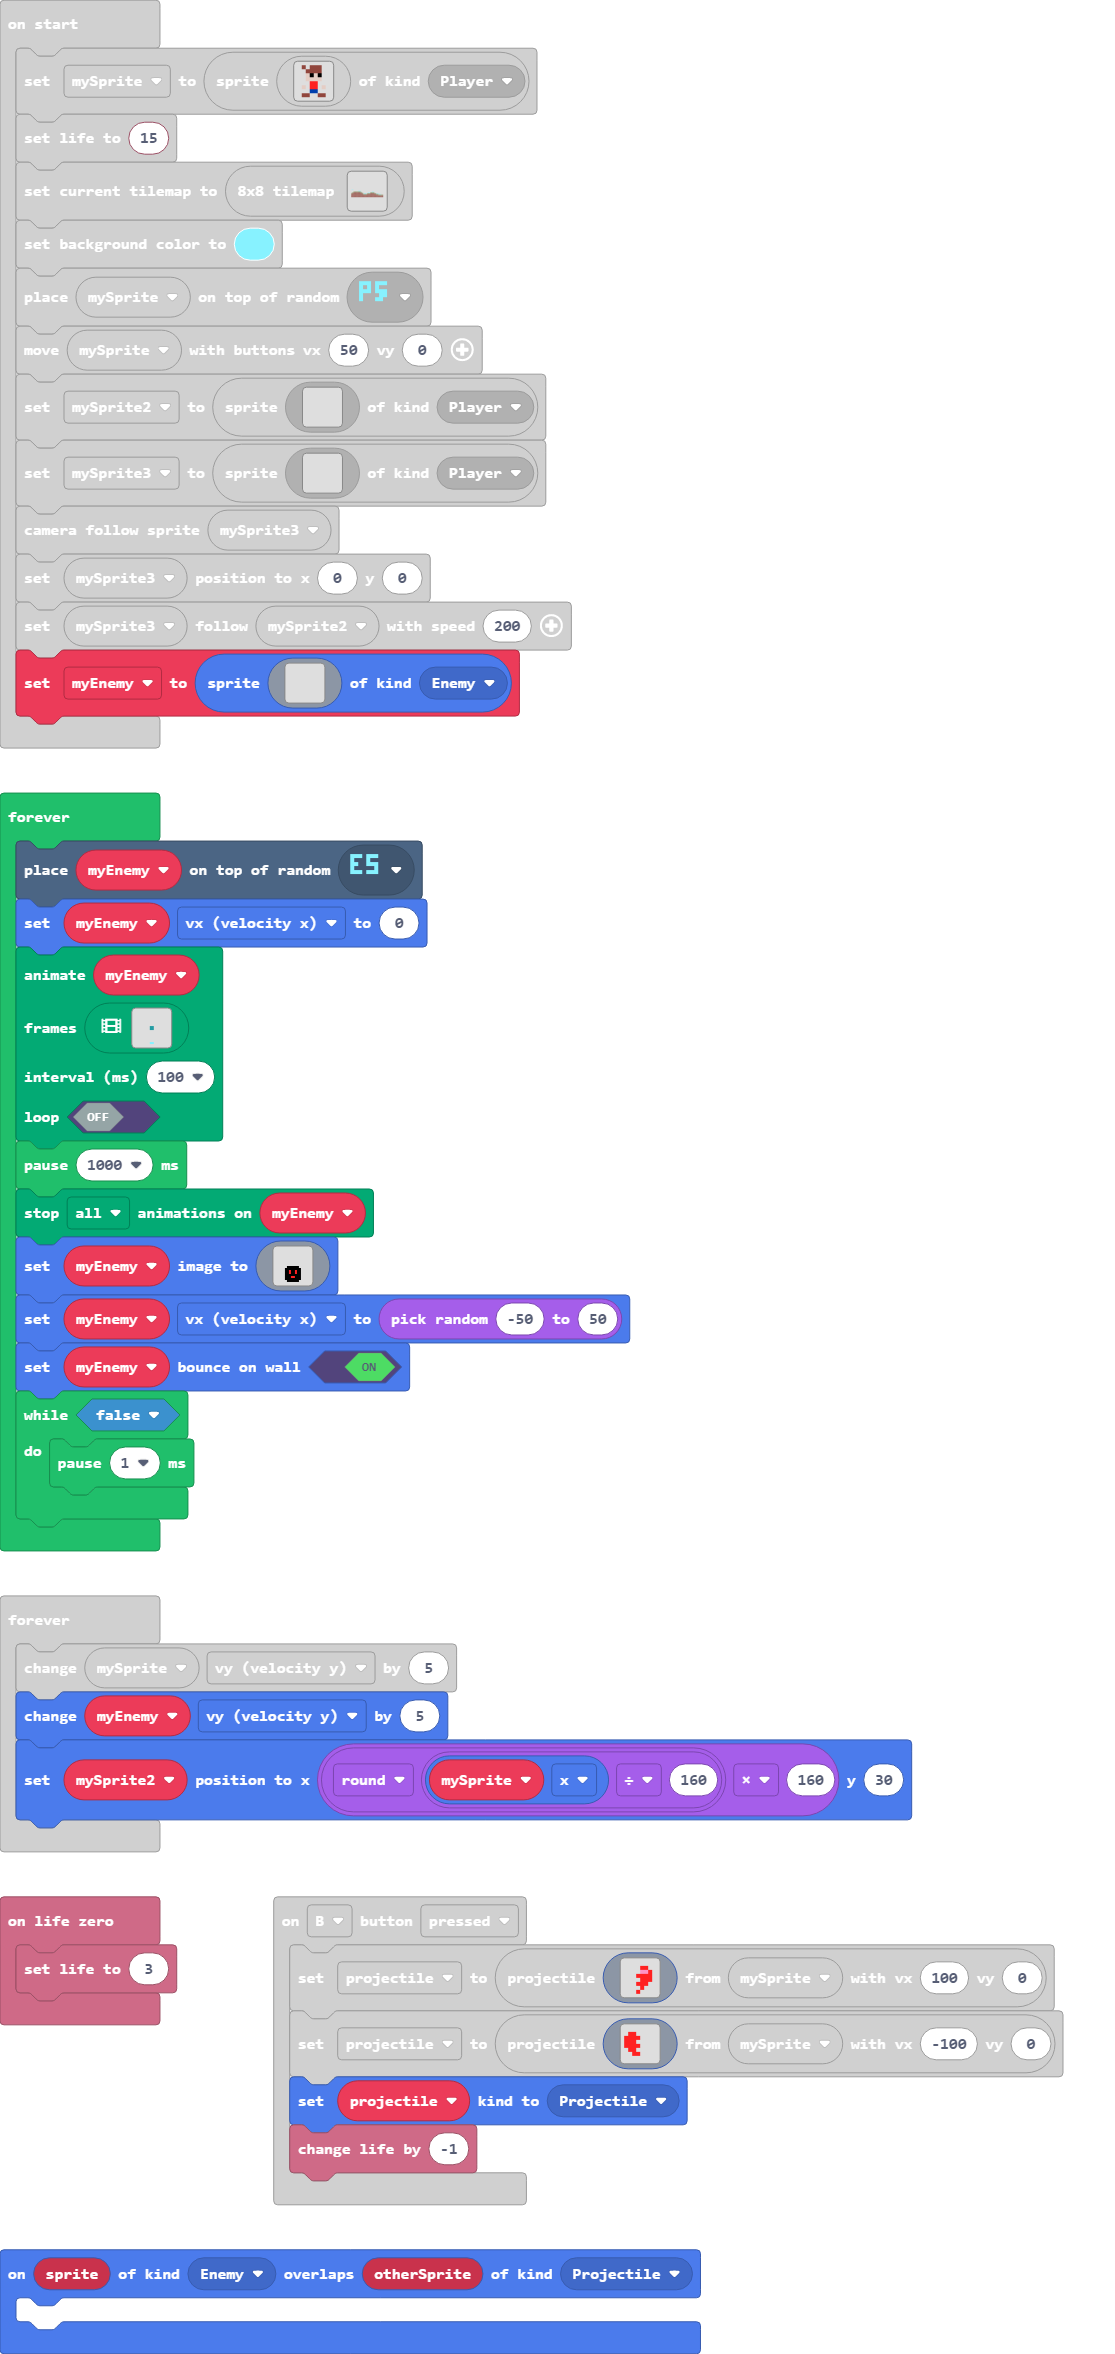
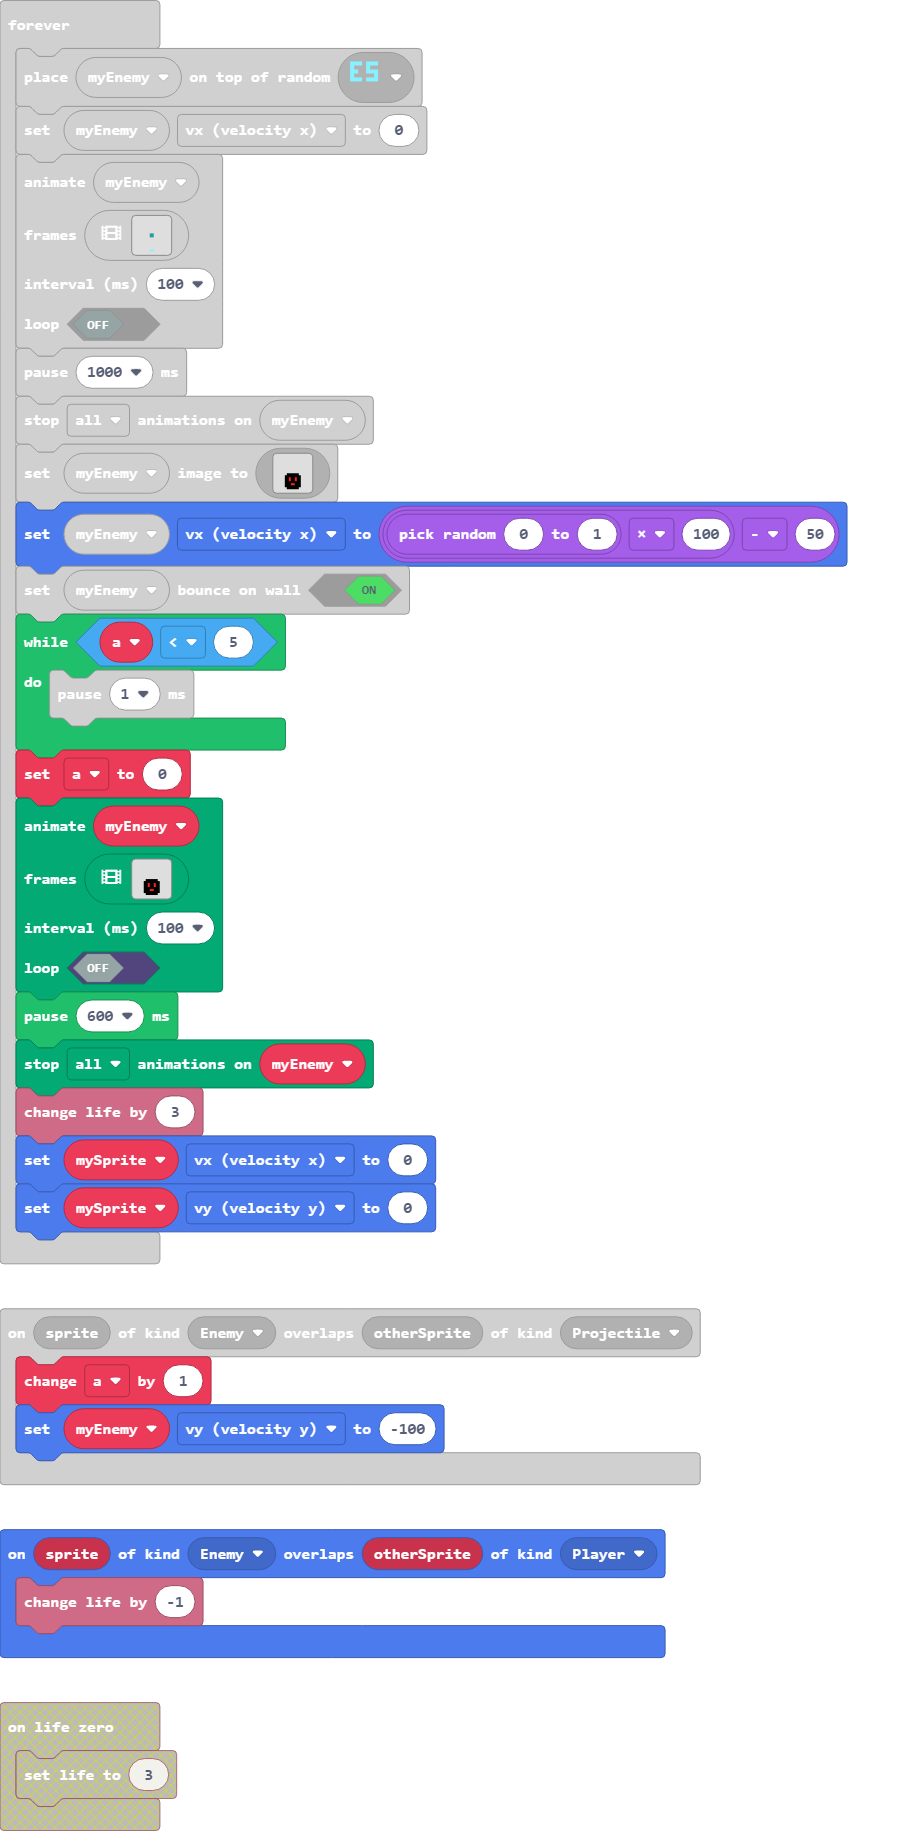
Update pxt.json, main.blocks, main.ts, tilemap.g.jres, tilemap.g.ts

diff --git a/main.ts b/main.ts
@@ -72,7 +72,8 @@ controller.left.onEvent(ControllerButtonEvent.Pressed, function () {
     )
 })
 sprites.onOverlap(SpriteKind.Enemy, SpriteKind.Projectile, function (sprite, otherSprite) {
-	
+    a += 1
+    myEnemy.vy = -100
 })
 controller.right.onEvent(ControllerButtonEvent.Released, function () {
     animation.stopAnimation(animation.AnimationTypes.All, mySprite)
@@ -144,10 +145,12 @@ controller.right.onEvent(ControllerButtonEvent.Pressed, function () {
     true
     )
 })
-info.onLifeZero(function () {
-    info.setLife(3)
+sprites.onOverlap(SpriteKind.Enemy, SpriteKind.Player, function (sprite, otherSprite) {
+    info.changeLifeBy(-1)
 })
+let a = 0
 let projectile: Sprite = null
+let myEnemy: Sprite = null
 let mySprite: Sprite = null
 mySprite = sprites.create(img`
     . e . e e e . . 
@@ -203,7 +206,7 @@ let mySprite3 = sprites.create(img`
 scene.cameraFollowSprite(mySprite3)
 mySprite3.setPosition(0, 0)
 mySprite3.follow(mySprite2, 200)
-let myEnemy = sprites.create(img`
+myEnemy = sprites.create(img`
     . . . . . . . . . . . . . . . . 
     . . . . . . . . . . . . . . . . 
     . . . . . . . . . . . . . . . . 
@@ -420,11 +423,142 @@ forever(function () {
         . . . . f f f f f f f f . . . . 
         . . . . . f f f f f f . . . . . 
         `)
-    myEnemy.vx = randint(-50, 50)
+    myEnemy.vx = randint(0, 1) * 100 - 50
     myEnemy.setBounceOnWall(true)
-    while (false) {
+    while (a < 5) {
         pause(1)
     }
+    a = 0
+    animation.runImageAnimation(
+    myEnemy,
+    [img`
+        . . . . . . . . . . . . . . . . 
+        . . . . . . . . . . . . . . . . 
+        . . . . . . . . . . . . . . . . 
+        . . . . . . . . . . . . . . . . 
+        . . . . . . . . . . . . . . . . 
+        . . . . . . . . . . . . . . . . 
+        . . . . . . . . . . . . . . . . 
+        . . . . . . . . . . . . . . . . 
+        . . . . . f f f f f f . . . . . 
+        . . . . f f f f f f f f . . . . 
+        . . . . f f 2 f f 2 f f . . . . 
+        . . . . f f 2 f f 2 f f . . . . 
+        . . . . f f f f f f f f . . . . 
+        . . . . f f f 2 2 f f f . . . . 
+        . . . . f f f f f f f f . . . . 
+        . . . . . f f f f f f . . . . . 
+        `,img`
+        . . . . . . . . . . . . . . . . 
+        . . . . . . . . . . . . . . . . 
+        . . . . . . . . . . . . . . . . 
+        . . . . . . . . . . . . . . . . 
+        . . . . . . . . . . . . . . . . 
+        . . . . . . . . . . . . . . . . 
+        . . . . . . . . . . . . . . . . 
+        . . . . . . . . . . . . . . . . 
+        . . . . . f f f f f f . . . . . 
+        . . . . f f f f f f f f . . . . 
+        . . . . f f 2 f f 2 f f . . . . 
+        . . . . f f 2 4 5 2 f f . . . . 
+        . . . . f f f 4 4 f f f . . . . 
+        . . . . f f f 2 2 f f f . . . . 
+        . . . . f f f f f f f f . . . . 
+        . . . . . f f f f f f . . . . . 
+        `,img`
+        . . . . . . . . . . . . . . . . 
+        . . . . . . . . . . . . . . . . 
+        . . . . . . . . . . . . . . . . 
+        . . . . . . . . . . . . . . . . 
+        . . . . . . . . . . . . . . . . 
+        . . . . . . . . . . . . . . . . 
+        . . . . . . . . . . . . . . . . 
+        . . . . . . . . . . . . . . . . 
+        . . . . . f f 4 f f f . . . . . 
+        . . . . f f 4 4 5 f f f . . . . 
+        . . . . f 4 4 5 5 5 4 f . . . . 
+        . . . . f 4 5 5 5 4 f f . . . . 
+        . . . . f f 4 5 5 4 f f . . . . 
+        . . . . f f f 4 4 4 f f . . . . 
+        . . . . f f f f f f f f . . . . 
+        . . . . . f f f f f f . . . . . 
+        `,img`
+        . . . . . . . . . . . . . . . . 
+        . . . . . . . . . . . . . . . . 
+        . . . . . . . . . . . . . . . . 
+        . . . . . . . . . . . . . . . . 
+        . . . . . . . . . . . . . . . . 
+        . . . . . . . . . . . . . . . . 
+        . . . . . . . . . . . . . . . . 
+        . . . . 4 4 4 4 4 4 . . . . . . 
+        . . . . 4 4 5 4 4 4 4 4 . . . . 
+        . . . 4 4 5 5 4 4 4 4 4 4 . . . 
+        . 4 4 4 4 5 5 5 5 5 5 4 4 4 . . 
+        . 4 4 4 4 5 5 5 5 5 5 4 4 4 . . 
+        . . . 4 4 4 5 5 5 5 5 4 4 . . . 
+        . . . 4 4 4 5 5 5 5 4 4 4 . . . 
+        . . . . 4 4 4 4 4 4 4 4 4 . . . 
+        . . . . . 4 4 4 4 4 4 4 . . . . 
+        `,img`
+        . . . . . . . . . . . . . . . . 
+        . . . . . . . . . . . . . . . . 
+        . . . . . . . . . . . . . . . . 
+        . . . . . . . . . . . . . . . . 
+        . . . . . . . . . . . . . . . . 
+        . . . 4 4 4 4 . . . . . . . . . 
+        . . . 4 4 5 4 . . . . . 4 4 . . 
+        . . 4 4 5 5 4 . . . . 4 4 4 4 . 
+        4 4 4 4 5 4 4 . . . 4 5 5 4 4 . 
+        4 4 4 4 4 4 4 . 2 . 4 4 4 4 . . 
+        . . . . . 2 2 2 2 2 . . . . . . 
+        . . . . . . 2 2 2 . . . . . . . 
+        . . . . . . . 2 4 4 4 4 . . . . 
+        . . . . . . . 4 5 5 5 4 4 . . . 
+        . . . . . 4 4 4 5 5 4 4 4 4 4 . 
+        . . . . . . 4 4 4 4 4 4 4 4 4 . 
+        `,img`
+        . . . . . . . . . . . . . . . . 
+        . . . . . . . . . . . . . . . . 
+        . . . . . . . . . . . . . . . . 
+        . . . . . . . . . . . . . . . . 
+        . 4 4 4 4 . . . . . . . . . . . 
+        4 4 5 5 4 . . . . . . . . . . . 
+        4 4 5 4 4 . . . . . . . . 4 4 4 
+        . 4 4 4 . . . . . . . . 4 4 5 4 
+        . . . . . . . . . . . . . . 4 4 
+        . . . . . . 2 . 2 . . . . . . . 
+        . . . . . 2 2 2 2 2 . . . . . . 
+        . . . . . . 2 2 2 . . . . . . . 
+        . . . . . . . 2 . 4 4 4 . . . . 
+        . . . . . . . . 4 4 4 4 4 4 . . 
+        . . . . . . . . 4 5 5 5 5 4 . . 
+        . . . . . . . . . 4 4 4 4 4 . . 
+        `,img`
+        . . . . . . . . . . . . . . . . 
+        . . . . . . . . . . . . . . . . 
+        . . . . . . . . . . . . . . . . 
+        . . . . . . . . . . . . . . . . 
+        . . . . . . . . . . . . . . . . 
+        . . . . . . . . . . . . . . . . 
+        . . . . . . . . . . . . . . . . 
+        . . . . . . . . . . . . . . . . 
+        . . . . . . . . . . . . . . . . 
+        . . . . . . 2 . 2 . . . . . . . 
+        . . . . . 2 2 2 2 2 . . . . . . 
+        . . . . . . 2 2 2 . . . . . . . 
+        . . . . . . . 2 . . . . . . . . 
+        . . . . . . . . . . . . . . . . 
+        . . . . . . . . . . . . . . . . 
+        . . . . . . . . . . . . . . . . 
+        `],
+    100,
+    false
+    )
+    pause(600)
+    animation.stopAnimation(animation.AnimationTypes.All, myEnemy)
+    info.changeLifeBy(3)
+    mySprite.vx = 0
+    mySprite.vy = 0
 })
 forever(function () {
     mySprite.vy += 5

diff --git a/tilemap.g.ts b/tilemap.g.ts
@@ -79,7 +79,7 @@ namespace myTiles {
 . . . . . . . . . . . . . . . . 
 `, [myTiles.transparency16], TileScale.Sixteen);
             case "level2":
[2 lines of base64/hex data omitted]
 ........................................
 ........................................
 ........................................
